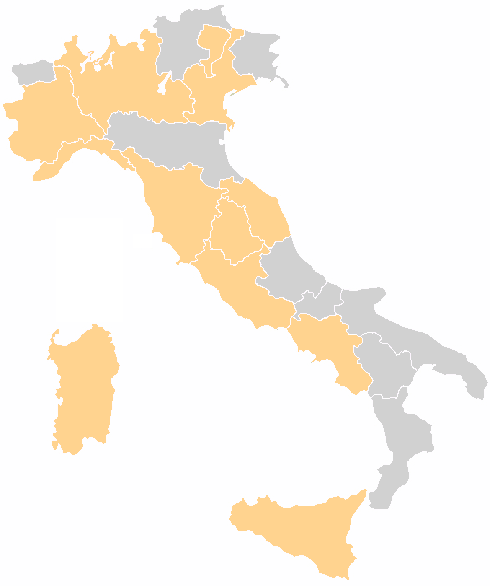
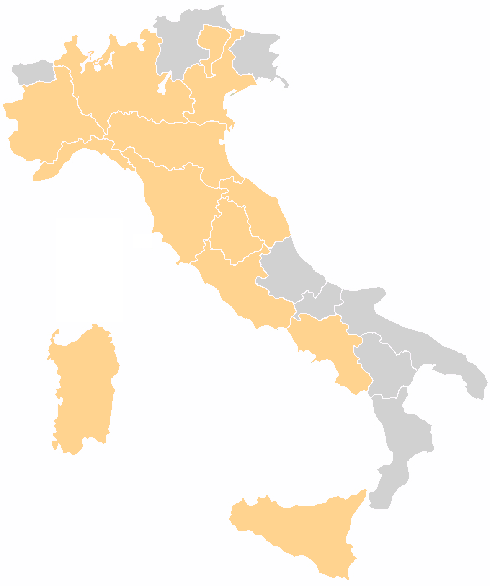
regio toegevoegd aan kaart Italissima

Changed region(s): [[0.2143, 0.1843, 0.4898, 0.3379]]

diff --git a/content/bestemmingen_italissima.html b/content/bestemmingen_italissima.html
@@ -51,6 +51,8 @@ $coords[156]="233,182,241,185,243,182,246,179,270,196,277,199,291,235,282,240,27
 $coords[168]="72,79,71,80,70,81,71,84,73,87,72,96,75,100,78,108,81,114,84,116,89,116,97,124,102,130,105,135,103,137,102,139,95,135,90,135,89,138,86,143,83,140,80,138,77,140,69,143,63,141,62,146,60,149,58,151,56,158,54,160,50,163,45,161,42,161,38,159,30,161,22,158,15,153,10,146,9,139,10,135,14,133,17,130,19,126,18,121,17,119,16,119,11,118,7,116,4,106,23,99,26,91,24,86,27,88,32,85,38,83,42,82,47,83,52,83,58,80,55,68,64,67,66,68,69,72,72,79,72,79";
 $coords[195]="244,31,244,35,235,41,231,45,228,50,232,53,235,57,233,60,232,64,235,71,241,76,252,76,257,85,251,84,246,86,236,93,238,91,236,89,234,89,229,90,225,95,223,100,223,105,223,109,227,110,226,115,230,119,235,123,233,129,232,125,229,127,230,132,226,123,212,120,200,125,191,121,185,116,186,113,190,115,195,115,196,112,194,106,195,103,197,101,194,98,191,98,193,93,189,87,183,81,184,79,185,78,189,70,193,66,197,65,204,67,203,70,204,74,206,77,209,79,217,76,214,73,213,69,213,65,221,57,224,52,225,47,232,36,231,33,230,32,233,32,233,29,244,31,244,31";
 
+# emilia-romagna
+$coords[210]="126,114,127,115,129,116,130,114,131,113,132,115,134,113,137,113,138,117,144,118,146,120,149,122,152,120,154,123,158,125,160,123,164,122,166,123,169,125,187,125,187,123,189,123,200,127,212,123,218,123,225,124,226,123,224,140,220,139,219,142,219,145,221,145,225,145,226,153,228,162,234,170,244,179,242,183,235,180,234,179,235,177,233,176,221,179,219,181,219,184,218,187,216,188,206,184,203,180,202,177,203,173,205,170,199,166,194,164,190,162,186,163,182,167,184,169,182,168,176,168,174,167,170,170,166,166,163,165,156,165,150,159,143,157,136,152,135,149,133,146,130,146,123,151,113,149,114,147,116,144,114,140,110,139,105,138,108,135,109,129,110,128,112,126,110,122,110,117,113,114,119,112,121,114,124,116,125,115,126,114,126,114";
 
 echo "<div id=\"landkaartklikbaar\">";
 #echo "<h2>Kaart ".htmlentities($themalandinfo["naam"])."</h2>";
